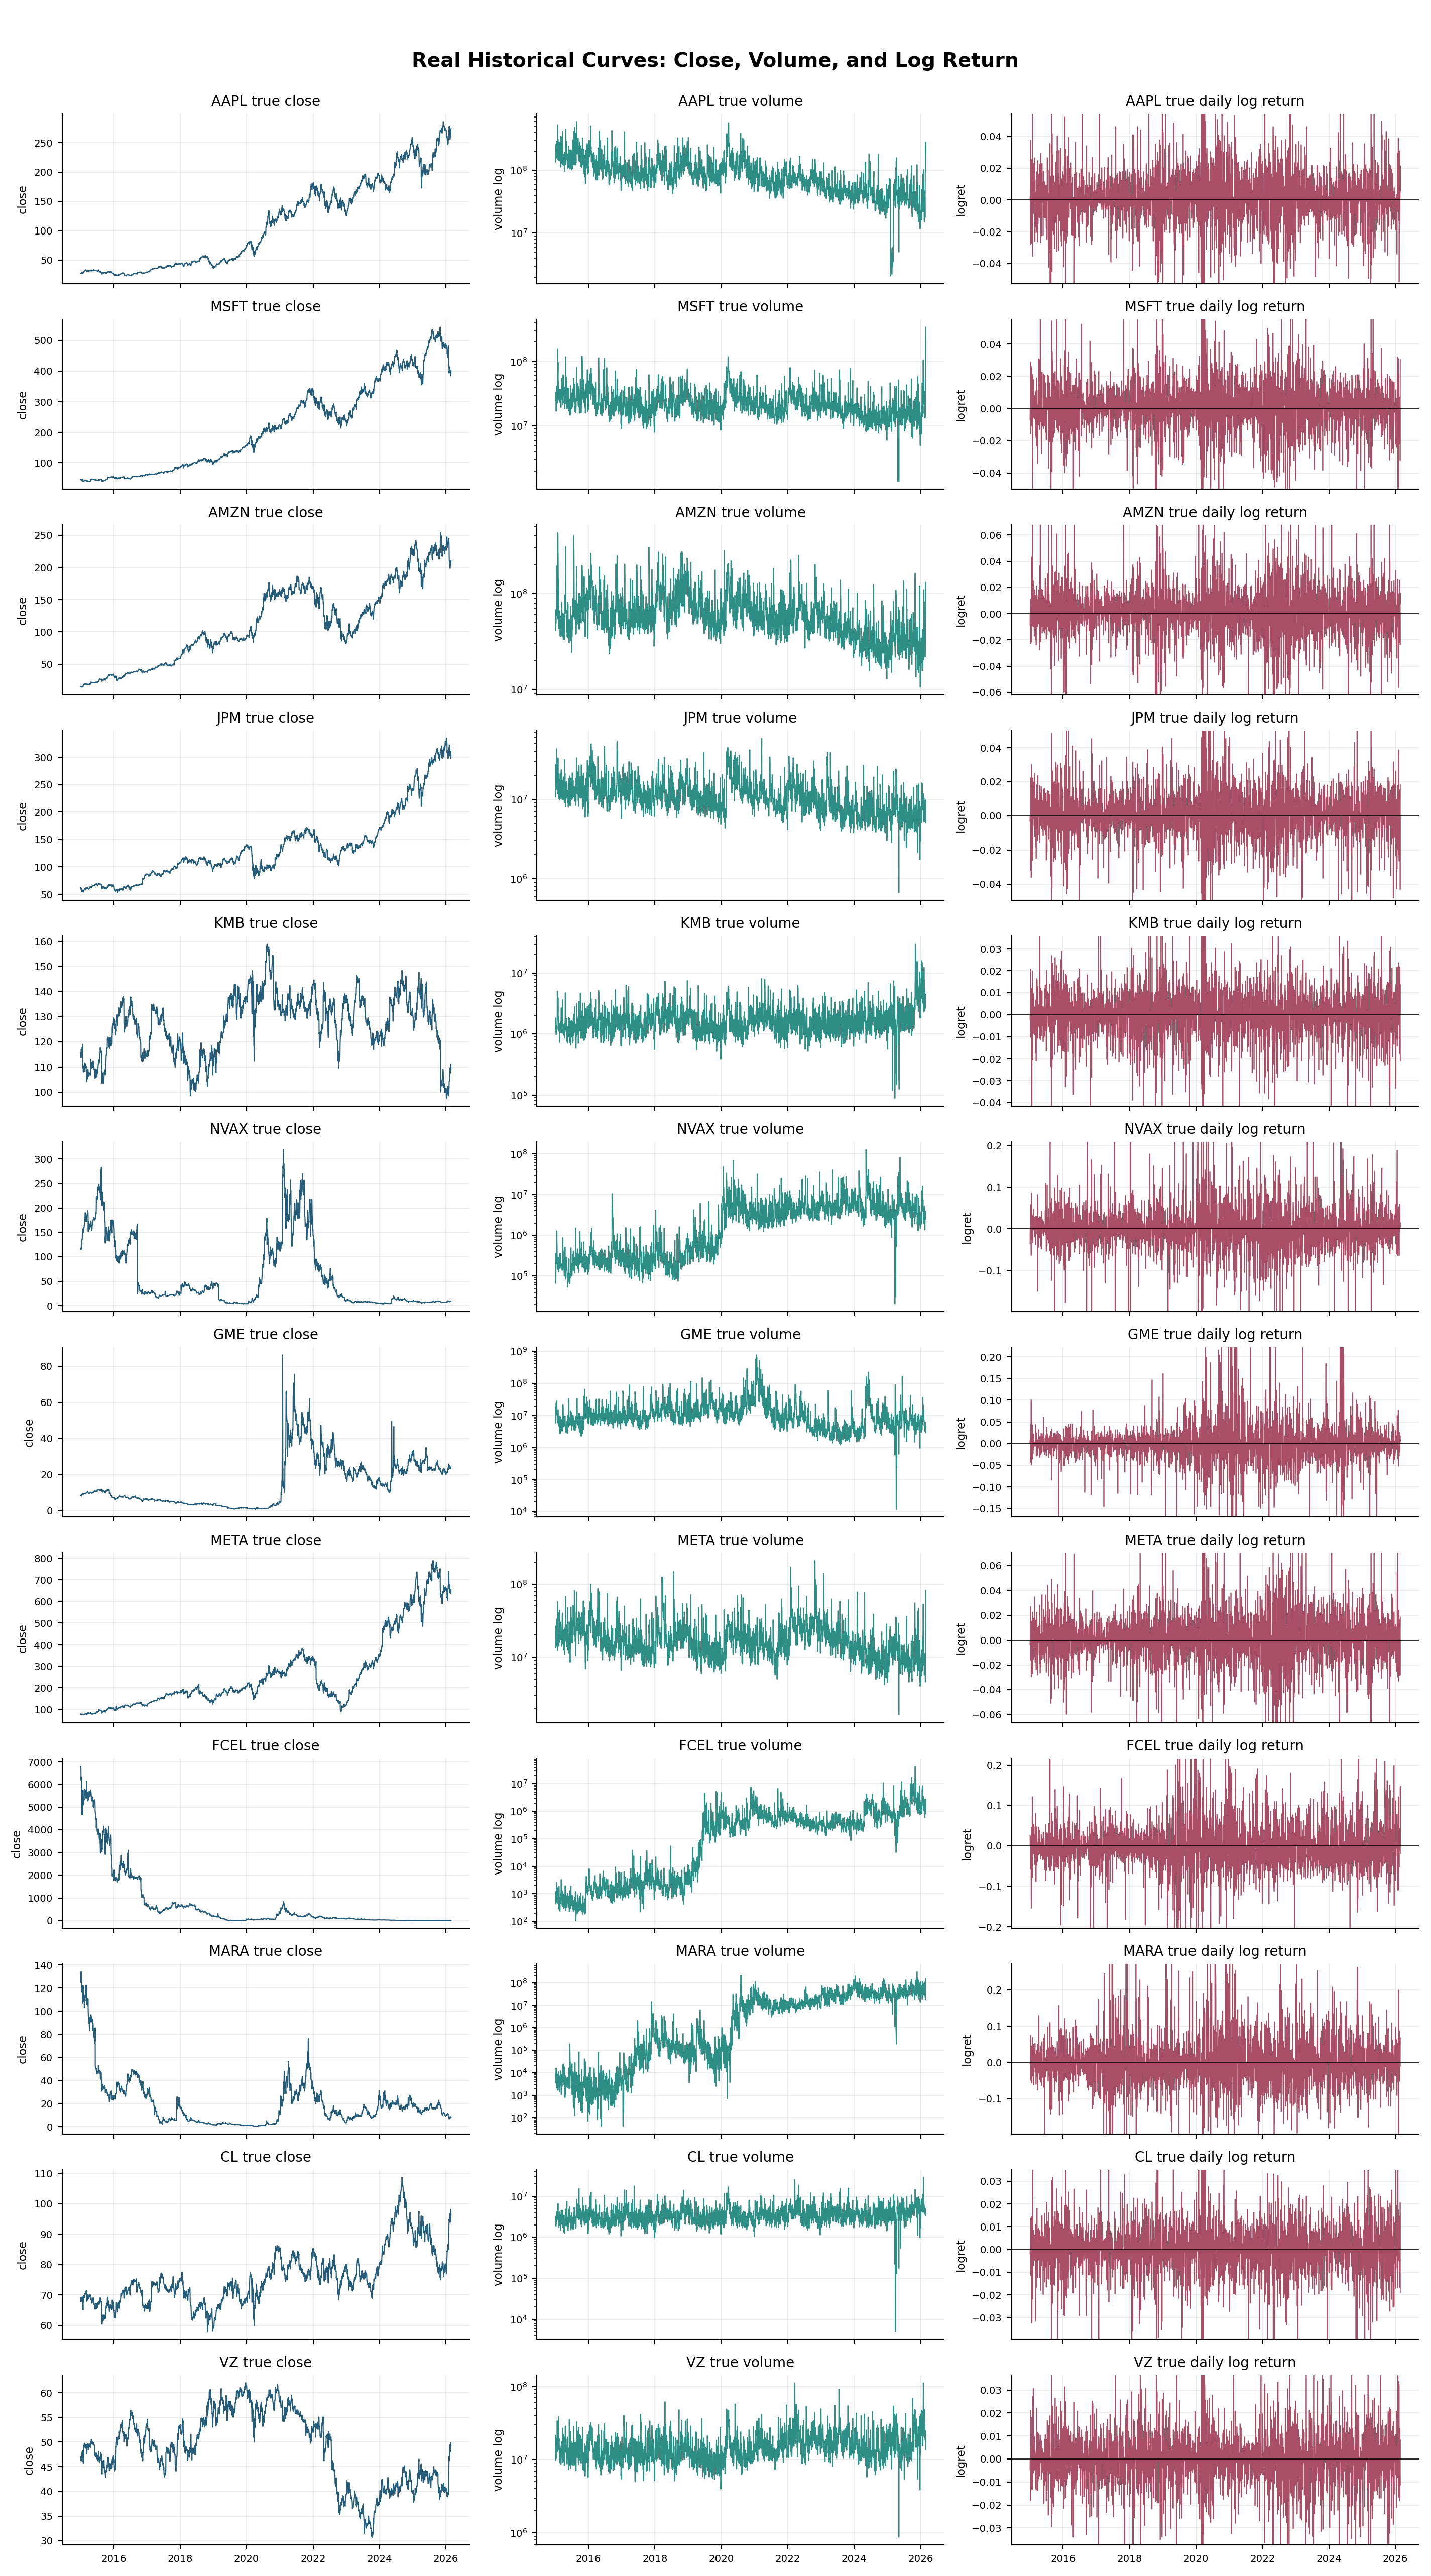
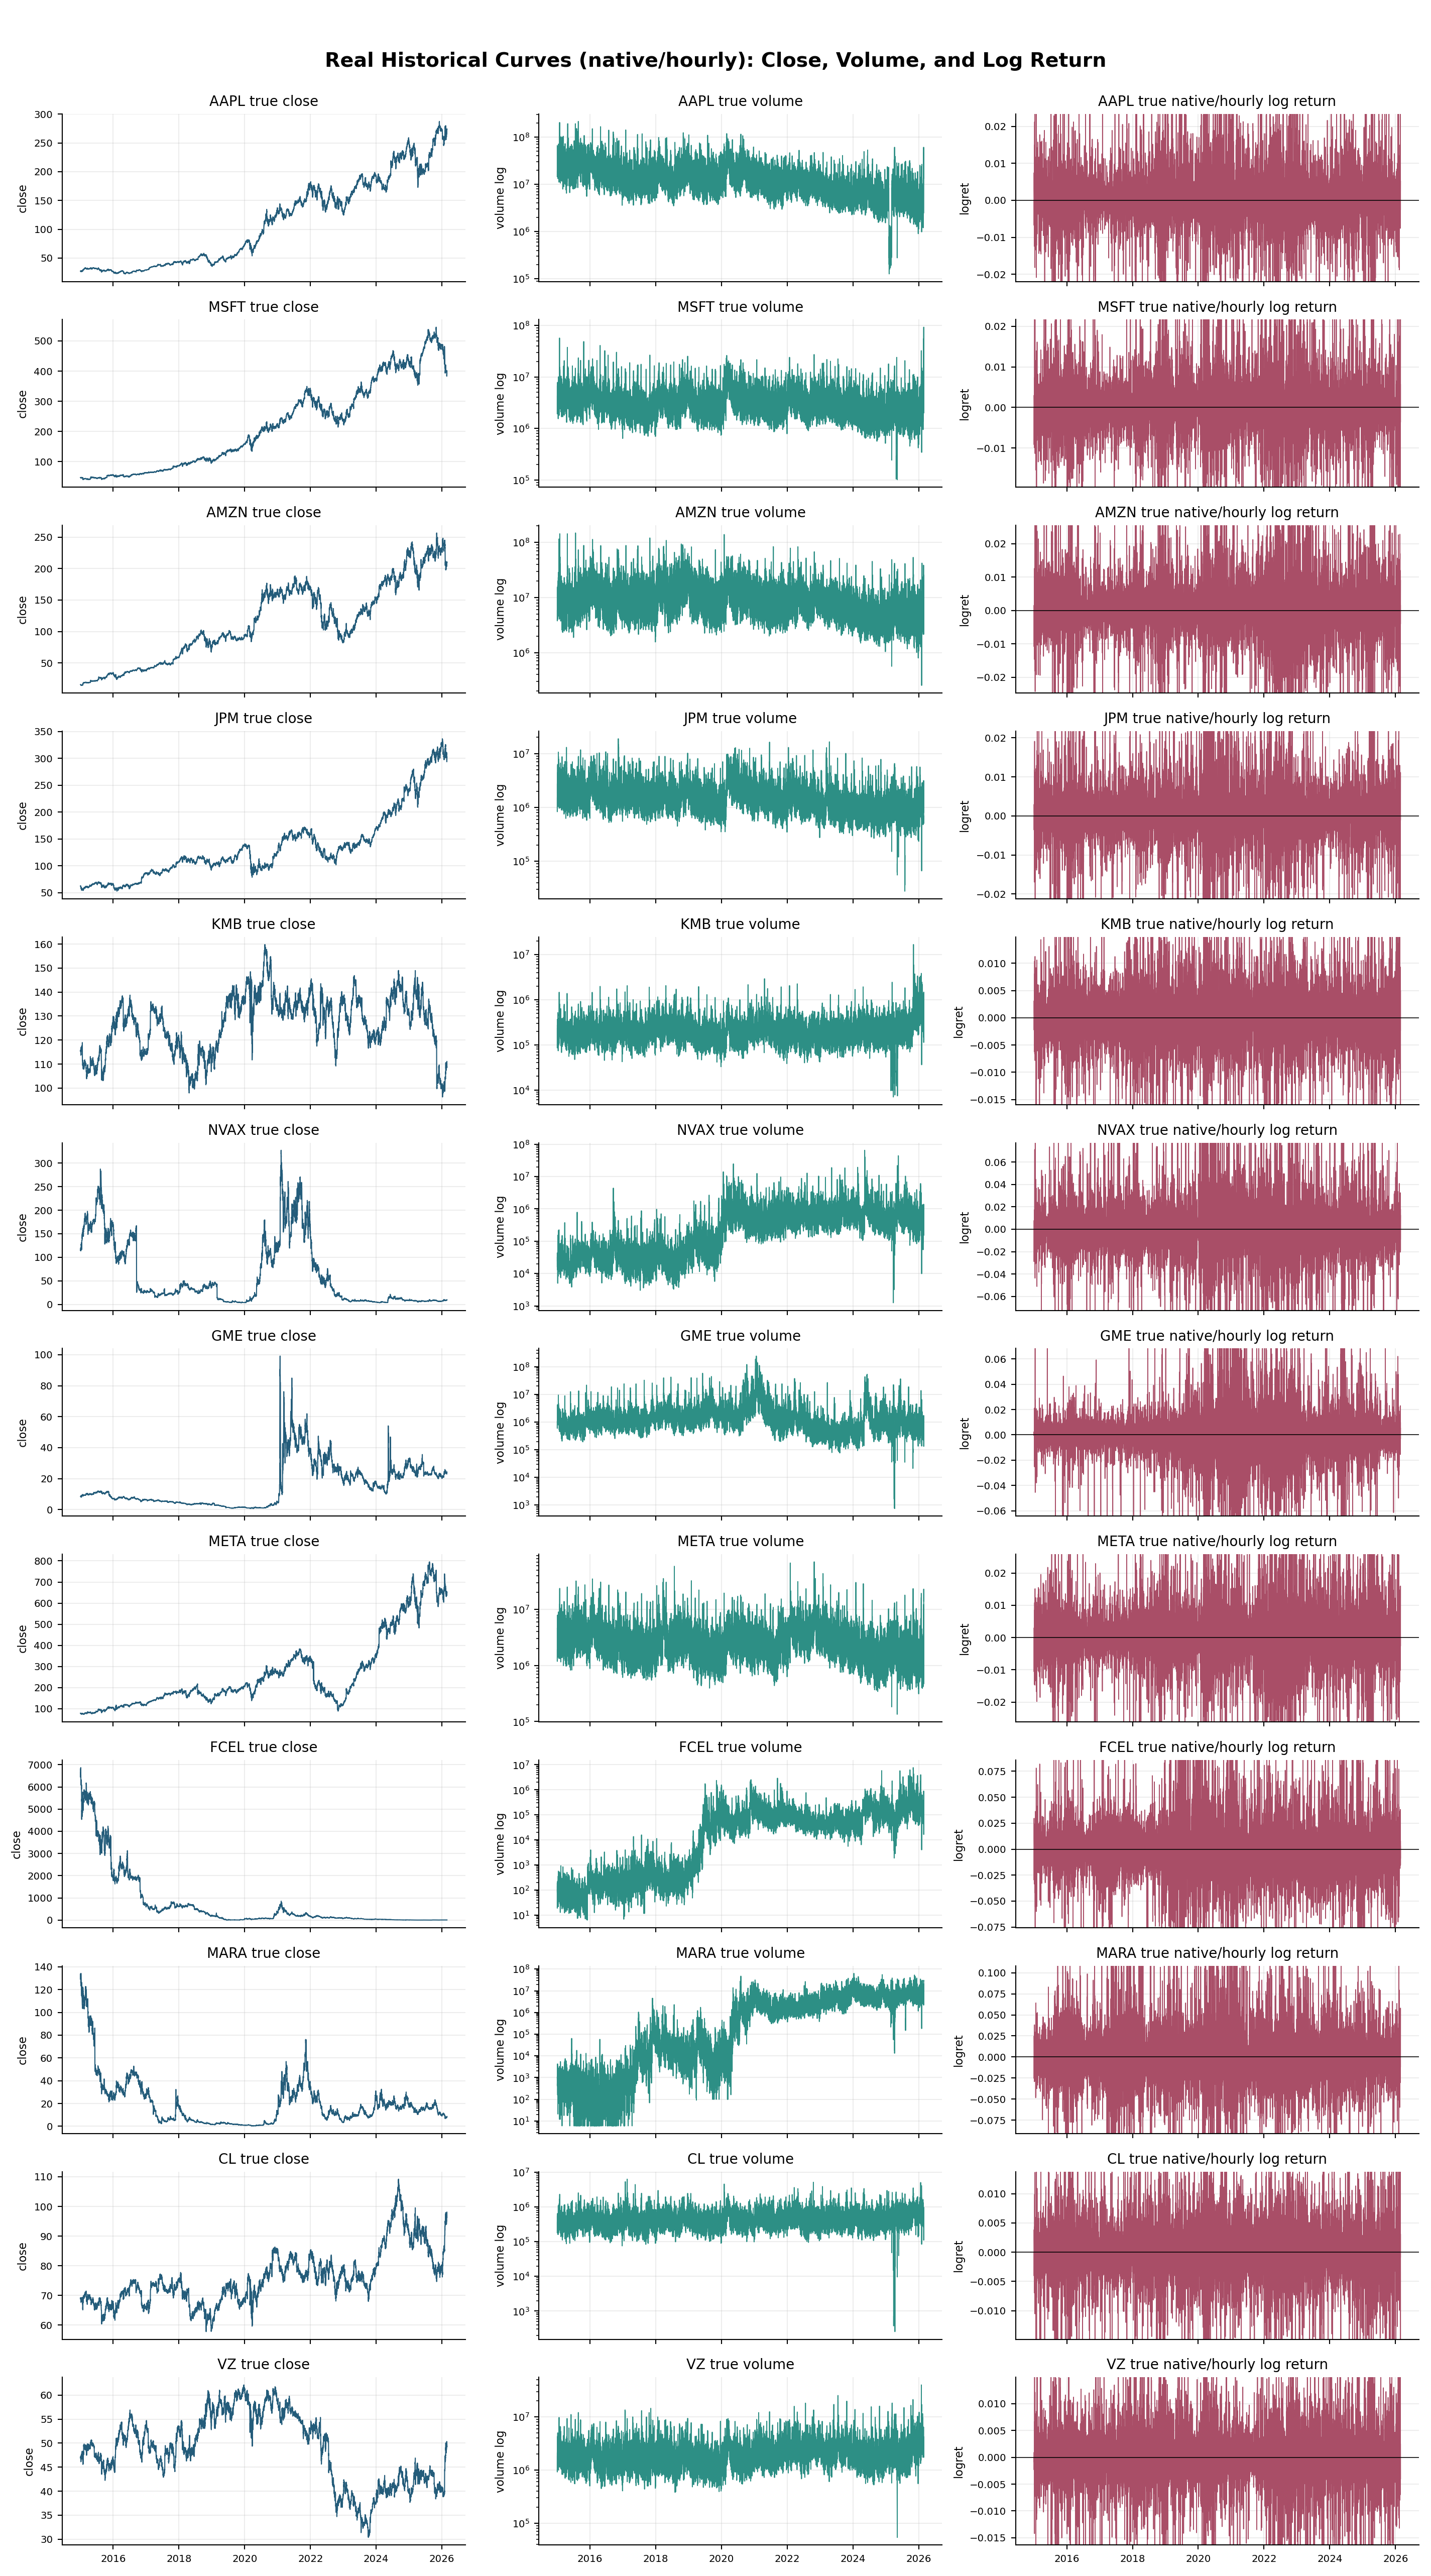
Use native hourly curves for finance1000 visuals

diff --git a/modern_tsf_visualizer/cli.py b/modern_tsf_visualizer/cli.py
@@ -86,6 +86,12 @@ def parse_args(argv: list[str] | None = None) -> argparse.Namespace:
     parser.add_argument("--sample-rows", type=int, default=7000)
     parser.add_argument("--chunksize", type=int, default=900)
     parser.add_argument("--representative-count", type=int, default=12)
+    parser.add_argument(
+        "--curve-frequency",
+        choices=["native", "daily"],
+        default="native",
+        help="Resolution for curve plots and ticker books. Use native for hourly finance1000 data.",
+    )
     parser.add_argument("--ticker-book", choices=["none", "selected", "all"], default="selected")
     parser.add_argument("--book-max-tickers", type=int, help="Optional cap for ticker-book pages.")
     parser.add_argument("--book-batch-size", type=int, default=24)
@@ -268,17 +274,32 @@ def read_representatives(
     raw = pd.read_csv(args.raw_csv, usecols=[args.date_col] + close_cols + volume_cols)
     raw[args.date_col] = pd.to_datetime(raw[args.date_col], utc=True, errors="coerce")
     raw = raw.set_index(args.date_col).sort_index()
-    daily_close = raw[close_cols].resample("1D").last()
-    daily_volume = raw[volume_cols].resample("1D").sum()
-
     if args.logret_csv:
         logr = pd.read_csv(args.logret_csv, usecols=[args.date_col] + close_cols)
         logr[args.date_col] = pd.to_datetime(logr[args.date_col], utc=True, errors="coerce")
         logr = logr.set_index(args.date_col).sort_index()
-        daily_logret = logr[close_cols].resample("1D").sum()
     else:
-        daily_logret = np.log(daily_close.replace(0, np.nan)).diff()
-    return daily_close, daily_volume, daily_logret
+        logr = None
+
+    if args.curve_frequency == "daily":
+        close = raw[close_cols].resample("1D").last()
+        volume = raw[volume_cols].resample("1D").sum()
+        if logr is not None:
+            logret = logr[close_cols].resample("1D").sum()
+        else:
+            logret = np.log(close.replace(0, np.nan)).diff()
+    else:
+        close = raw[close_cols]
+        volume = raw[volume_cols]
+        if logr is not None:
+            logret = logr[close_cols].reindex(close.index)
+        else:
+            logret = np.log(close.replace(0, np.nan)).diff()
+    return close, volume, logret
+
+
+def curve_frequency_label(args: argparse.Namespace) -> str:
+    return "daily" if args.curve_frequency == "daily" else "native/hourly"
 
 
 def iter_raw_and_logret_chunks(
@@ -451,6 +472,7 @@ def plot_representative_curves(
     args: argparse.Namespace,
     figures_dir: Path,
 ) -> Path:
+    freq_label = curve_frequency_label(args)
     fig, axes = plt.subplots(len(symbols), 3, figsize=(15, 2.25 * len(symbols)), sharex="col", squeeze=False)
     for i, symbol in enumerate(symbols):
         close_col = column_for(symbol, args.close_suffix)
@@ -472,9 +494,9 @@ def plot_representative_curves(
             lo, hi = np.nanquantile(finite, [0.005, 0.995])
             if lo < hi:
                 axes[i, 2].set_ylim(lo, hi)
-        axes[i, 2].set_title(f"{symbol} true daily log return")
+        axes[i, 2].set_title(f"{symbol} true {freq_label} log return")
         axes[i, 2].set_ylabel("logret")
-    fig.suptitle("Real Historical Curves: Close, Volume, and Log Return", fontsize=15, fontweight="bold")
+    fig.suptitle(f"Real Historical Curves ({freq_label}): Close, Volume, and Log Return", fontsize=15, fontweight="bold")
     fig.tight_layout(rect=[0, 0, 1, 0.98])
     return save_fig(fig, figures_dir, "real_curves_by_ticker.png")
 
@@ -724,17 +746,18 @@ def generate_ticker_book(
     if not book_symbols:
         return None
 
-    path = out_dir / f"ticker_book_{args.ticker_book}_{len(book_symbols)}.pdf"
+    path = out_dir / f"ticker_book_{args.curve_frequency}_{args.ticker_book}_{len(book_symbols)}.pdf"
+    freq_label = curve_frequency_label(args)
     with PdfPages(path) as pdf:
         for batch in batched(book_symbols, args.book_batch_size):
-            daily_close, daily_volume, daily_logret = read_representatives(args, batch)
+            curve_close, curve_volume, curve_logret = read_representatives(args, batch)
             for symbol in batch:
                 close_col = column_for(symbol, args.close_suffix)
                 volume_col = column_for(symbol, args.volume_suffix)
                 fig, axes = plt.subplots(3, 1, figsize=(13, 8.5), sharex=True)
-                c = daily_close[close_col].replace(0, np.nan)
-                v = daily_volume[volume_col].replace(0, np.nan)
-                r = daily_logret[close_col]
+                c = curve_close[close_col].replace(0, np.nan)
+                v = curve_volume[volume_col].replace(0, np.nan)
+                r = curve_logret[close_col]
                 axes[0].plot(c.index, c, color="#245C7A", lw=0.9)
                 axes[0].set_title(f"{symbol} true close")
                 axes[0].set_ylabel("close")
@@ -749,9 +772,9 @@ def generate_ticker_book(
                     lo, hi = np.nanquantile(finite, [0.005, 0.995])
                     if lo < hi:
                         axes[2].set_ylim(lo, hi)
-                axes[2].set_title(f"{symbol} true daily log return")
+                axes[2].set_title(f"{symbol} true {freq_label} log return")
                 axes[2].set_ylabel("logret")
-                fig.suptitle(f"{symbol}: Raw Close, Volume, and Log Return", fontsize=15, fontweight="bold")
+                fig.suptitle(f"{symbol}: Raw Close, Volume, and Log Return ({freq_label})", fontsize=15, fontweight="bold")
                 fig.tight_layout(rect=[0, 0, 1, 0.96])
                 pdf.savefig(fig)
                 plt.close(fig)

diff --git a/README.md b/README.md
@@ -8,7 +8,7 @@ The visualizer generates real data diagnostics, not only text summaries:
 
 - raw close/value and volume distributions;
 - log-return and volume-change distributions;
-- true historical close, volume, and daily log-return curves;
+- true historical close, volume, and native-frequency log-return curves;
 - log-return QQ plot, tail CCDF, and tail event frequencies;
 - cross-sectional close and volume structure over time;
 - per-ticker volatility, volume, and long-run return heterogeneity;
@@ -45,6 +45,7 @@ CUDA_VISIBLE_DEVICES= python scripts/run_visual_report.py \
   --date-col date \
   --close-suffix _close \
   --volume-suffix _volume \
+  --curve-frequency native \
   --ticker-book selected
 ```
 
@@ -70,7 +71,9 @@ This uses `configs/finance1000.cloud.json` and writes to the configured cloud ou
 
 - [Figure-first interpreted PDF report](reports/finance1000/finance1000_figure_first_report.pdf)
 - [Compact auto-generated PDF report](reports/finance1000/modern_tsf_visual_data_analysis.pdf)
-- [All-ticker PDF book](reports/finance1000/ticker_book_all_1000.pdf)
+- [Hourly selected-ticker PDF book](reports/finance1000/ticker_book_native_selected_12.pdf)
+- Full hourly all-ticker PDF book: generated on Pro6000 at `/data/jm/tsorchestra_repro_20260610/analysis_outputs/finance1000_modern_tsf_visualizer_hourly_20260614/ticker_book_native_all_1000.pdf` (about 239 MB, not committed to GitHub).
+- [Legacy daily all-ticker PDF book](reports/finance1000/ticker_book_all_1000.pdf)
 - [Real curves by ticker](reports/finance1000/figures/real_curves_by_ticker.png)
 - [Distribution panels](reports/finance1000/figures/real_distribution_panels.png)
 - [Log-return diagnostics](reports/finance1000/figures/log_return_diagnostics.png)
@@ -87,6 +90,7 @@ This uses `configs/finance1000.cloud.json` and writes to the configured cloud ou
 
 - Universe: 1000 US equity tickers.
 - Timestamps: 28,510 hourly rows.
+- Curve/ticker-book frequency: native hourly rows.
 - Span: 2015-01-02 to 2026-02-25 UTC.
 - Representative tickers in the compact report: AAPL, MSFT, AMZN, JPM, KMB, NVAX, GME, META, FCEL, MARA, CL, VZ.
 

diff --git a/docs/finance1000_report.md b/docs/finance1000_report.md
@@ -6,6 +6,7 @@ This repository includes generated report artifacts for the finance1000 hourly t
 
 - Universe: 1000 US equity tickers.
 - Timestamps: 28,510 hourly rows.
+- Correct plotting frequency: native hourly rows for curve and ticker-book views.
 - Time span: 2015-01-02 to 2026-02-25 UTC.
 - Raw table: `date` plus `1000 *_close` and `1000 *_volume` columns.
 - Log-return table: same shape, with close log returns and volume log changes.
@@ -20,7 +21,9 @@ Raw data is intentionally not committed. On Pro6000 it lives under:
 
 - `reports/finance1000/finance1000_figure_first_report.pdf`: primary figure-first report with interpretation notes.
 - `reports/finance1000/modern_tsf_visual_data_analysis.pdf`: compact auto-generated report.
-- `reports/finance1000/ticker_book_all_1000.pdf`: one page per ticker.
+- `reports/finance1000/ticker_book_native_selected_12.pdf`: committed hourly selected-ticker book.
+- Full hourly 1000-ticker book: `/data/jm/tsorchestra_repro_20260610/analysis_outputs/finance1000_modern_tsf_visualizer_hourly_20260614/ticker_book_native_all_1000.pdf` on Pro6000; not committed because it is about 239 MB.
+- `reports/finance1000/ticker_book_all_1000.pdf`: legacy daily-resampled book, kept for comparison only.
 - `reports/finance1000/figures/*.png`: key reusable figures.
 - `reports/finance1000/tables/*.csv`: distribution, cross-section, and per-ticker stats.
 - `reports/finance1000/summary.json`: machine-readable summary.